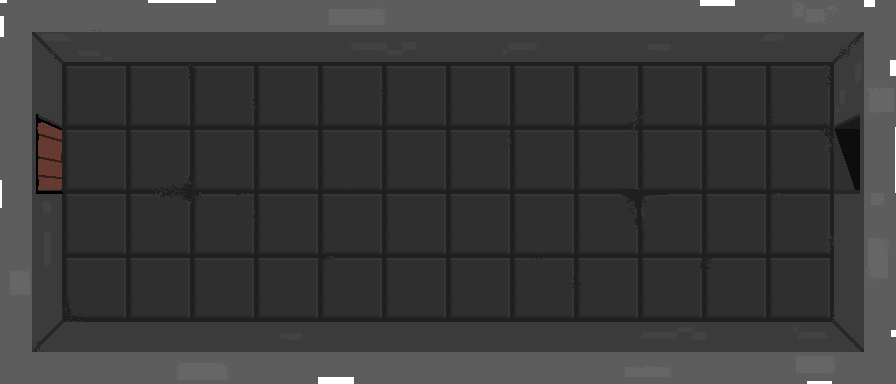
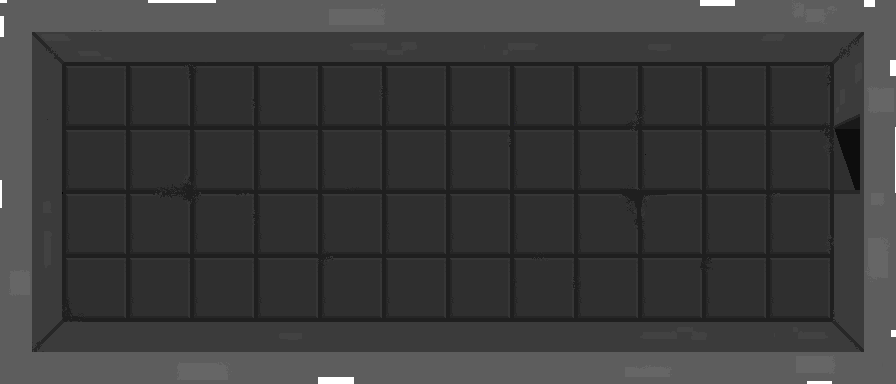
- add walking through door

Changed region(s): [[0.0312, 0.3125, 0.0938, 0.5312]]

diff --git a/src/machines/game/game.machine.ts b/src/machines/game/game.machine.ts
@@ -1,52 +1,80 @@
-import { createMachine } from 'xstate';
+import { createMachine, send } from 'xstate';
+import { isEqual } from 'lodash';
+import { choose } from 'xstate/lib/actions';
 
 import { playerMachine } from '@/machines/player';
+import { DOOR_COORDS } from '@/constants';
 import { IGameState, TGameEvent } from '.';
 
-const gameMachine = createMachine<null, TGameEvent, IGameState>({
-  id: 'game',
-  initial: 'home',
-  states: {
-    home: {
-      on: {
-        START_BUTTON_CLICKED: 'playing',
+const gameMachine = createMachine<null, TGameEvent, IGameState>(
+  {
+    id: 'game',
+    initial: 'home',
+    states: {
+      home: {
+        on: {
+          START_BUTTON_CLICKED: 'playing',
+        },
       },
-    },
-    playing: {
-      invoke: {
-        id: 'playerActor',
-        src: playerMachine,
-      },
-      on: {
-        PLAYER_DIED: 'gameOver',
-        PLAYER_GOT_TREASURE: 'gameComplete',
-      },
-      initial: 'level1',
-      states: {
-        level1: {
-          on: {
-            PLAYER_WALKED_THROUGH_DOOR: 'level2',
+      playing: {
+        invoke: {
+          id: 'playerActor',
+          src: 'playerMachine',
+        },
+        on: {
+          PLAYER_DIED: 'gameOver',
+          PLAYER_GOT_TREASURE: 'gameComplete',
+          PLAYER_MOVED: {
+            actions: 'onPlayerMoved',
           },
         },
-        level2: {
-          on: {
-            PLAYER_WALKED_THROUGH_DOOR: 'level3',
+        initial: 'level1',
+        states: {
+          level1: {
+            on: {
+              PLAYER_WALKED_THROUGH_DOOR: 'level2',
+            },
+          },
+          level2: {
+            entry: 'resetPlayerCoords',
+            on: {
+              PLAYER_WALKED_THROUGH_DOOR: 'level3',
+            },
+          },
+          level3: {
+            entry: 'resetPlayerCoords',
           },
         },
-        level3: {},
       },
-    },
-    gameOver: {
-      on: {
-        RESTART_BUTTON_CLICKED: 'playing',
+      gameOver: {
+        on: {
+          RESTART_BUTTON_CLICKED: 'playing',
+        },
       },
-    },
-    gameComplete: {
-      on: {
-        HOME_BUTTON_CLICKED: 'home',
+      gameComplete: {
+        on: {
+          HOME_BUTTON_CLICKED: 'home',
+        },
       },
     },
   },
-});
+  {
+    services: {
+      playerMachine,
+    },
+    actions: {
+      onPlayerMoved: choose([{ cond: 'isPlayerAtDoor', actions: ['playerWalkedThrowDoor'] }]),
+      playerWalkedThrowDoor: send('PLAYER_WALKED_THROUGH_DOOR'),
+      resetPlayerCoords: send('RESET_PLAYER_COORDS', { to: 'playerActor' }),
+    },
+    guards: {
+      isPlayerAtDoor: (_, event) => {
+        if (event.type !== 'PLAYER_MOVED') return false;
+
+        return isEqual(event.coords, DOOR_COORDS);
+      },
+    },
+  }
+);
 
 export { gameMachine };

diff --git a/src/machines/player/player.machine.ts b/src/machines/player/player.machine.ts
@@ -1,6 +1,7 @@
-import { assign, createMachine } from 'xstate';
+import { assign, createMachine, sendParent } from 'xstate';
 import { choose } from 'xstate/lib/actions';
 
+import { IPlayerMoved } from '@/machines/game';
 import { PLAYER_STARTING_COORDS } from '@/constants';
 import { getTargetCoords, isAllowCoords } from '@/utils';
 import { IPlayerContext, IPlayerState, TPlayerEvent } from '.';
@@ -18,6 +19,9 @@ const playerMachine = createMachine<IPlayerContext, TPlayerEvent, IPlayerState>(
           ARROW_BUTTON_CLICKED: {
             actions: 'onArrowButtonClicked',
           },
+          RESET_PLAYER_COORDS: {
+            actions: 'onResetPlayerCoords',
+          },
         },
       },
       dead: {},
@@ -25,18 +29,28 @@ const playerMachine = createMachine<IPlayerContext, TPlayerEvent, IPlayerState>(
   },
   {
     actions: {
-      onArrowButtonClicked: choose([{ cond: 'isAllowMove', actions: 'move' }]),
-      move: assign(({ coords }, { direction }) => {
-        const targetCoords = getTargetCoords({ coords, direction });
+      onArrowButtonClicked: choose([
+        { cond: 'isAllowMove', actions: ['move', 'broadcastPlayerMoved'] },
+      ]),
+      broadcastPlayerMoved: sendParent(({ coords }) => {
+        const event: IPlayerMoved = { type: 'PLAYER_MOVED', coords };
+
+        return event;
+      }),
+      move: assign(({ coords }, event) => {
+        if (event.type !== 'ARROW_BUTTON_CLICKED') return { coords };
+
+        const targetCoords = getTargetCoords({ coords, direction: event.direction });
 
         return { coords: targetCoords };
       }),
+      onResetPlayerCoords: assign(() => ({ coords: PLAYER_STARTING_COORDS })),
     },
     guards: {
-      isAllowMove: ({ coords }, { type, direction }) => {
-        if (type !== 'ARROW_BUTTON_CLICKED') return false;
+      isAllowMove: ({ coords }, event) => {
+        if (event.type !== 'ARROW_BUTTON_CLICKED') return false;
 
-        const targetCoords = getTargetCoords({ coords, direction });
+        const targetCoords = getTargetCoords({ coords, direction: event.direction });
 
         return isAllowCoords(targetCoords);
       },

diff --git a/src/machines/game/game.types.ts b/src/machines/game/game.types.ts
@@ -1,3 +1,5 @@
+import { TCoords } from '@/types';
+
 interface IStartButtonClicked {
   type: 'START_BUTTON_CLICKED';
 }
@@ -26,6 +28,11 @@ interface IPlayerWalkedThroughDoor {
   type: 'PLAYER_WALKED_THROUGH_DOOR';
 }
 
+interface IPlayerMoved {
+  type: 'PLAYER_MOVED';
+  coords: TCoords;
+}
+
 interface IGameState {
   context: null;
   value:
@@ -44,7 +51,8 @@ type TGameEvent =
   | IPlayerGotTreasure
   | IRestartButtonClicked
   | IHomeButtonClicked
-  | IPlayerWalkedThroughDoor;
+  | IPlayerWalkedThroughDoor
+  | IPlayerMoved;
 
 export type {
   IStartButtonClicked,
@@ -52,6 +60,7 @@ export type {
   IPlayerGotTreasure,
   IRestartButtonClicked,
   IHomeButtonClicked,
+  IPlayerMoved,
   TGameEvent,
   IGameState,
 };

diff --git a/src/machines/player/player.types.ts b/src/machines/player/player.types.ts
@@ -8,6 +8,10 @@ interface IArrowButtonClicked {
   direction: EDirection;
 }
 
+interface IResetPlayerCoords {
+  type: 'RESET_PLAYER_COORDS';
+}
+
 interface IPlayerContext {
   coords: TCoords;
 }
@@ -19,6 +23,13 @@ interface IPlayerState {
 
 type TPlayerActor = ActorRef<any, IPlayerState>;
 
-type TPlayerEvent = IArrowButtonClicked;
+type TPlayerEvent = IArrowButtonClicked | IResetPlayerCoords;
 
-export type { IPlayerState, TPlayerActor, IPlayerContext, IArrowButtonClicked, TPlayerEvent };
+export type {
+  IPlayerState,
+  TPlayerActor,
+  IPlayerContext,
+  IArrowButtonClicked,
+  TPlayerEvent,
+  IResetPlayerCoords,
+};

diff --git a/src/components/game/game.tsx b/src/components/game/game.tsx
@@ -39,7 +39,7 @@ const Game: FC<IGameProps> = ({ fastForwardEvents }) => {
       return (
         <>
           <Background src={level2Background} alt="Dungeon room" />
-          <Grid />
+          <Grid>{playerActor && <Player actor={playerActor} />}</Grid>
         </>
       );
     }
@@ -48,7 +48,7 @@ const Game: FC<IGameProps> = ({ fastForwardEvents }) => {
       return (
         <>
           <Background src={level3Background} alt="Dungeon room" />
-          <Grid />
+          <Grid>{playerActor && <Player actor={playerActor} />}</Grid>
         </>
       );
     }

diff --git a/src/constants/coords.ts b/src/constants/coords.ts
@@ -1,5 +1,6 @@
 import { TCoords } from '@/types';
 
 const PLAYER_STARTING_COORDS: TCoords = [0, 1];
+const DOOR_COORDS: TCoords = [11, 1];
 
-export { PLAYER_STARTING_COORDS };
+export { PLAYER_STARTING_COORDS, DOOR_COORDS };
